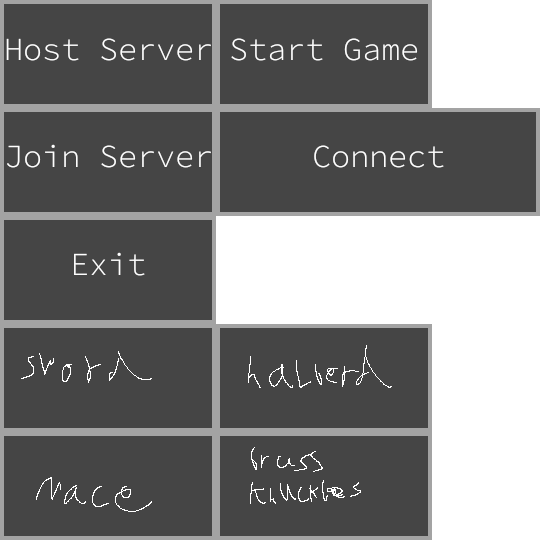
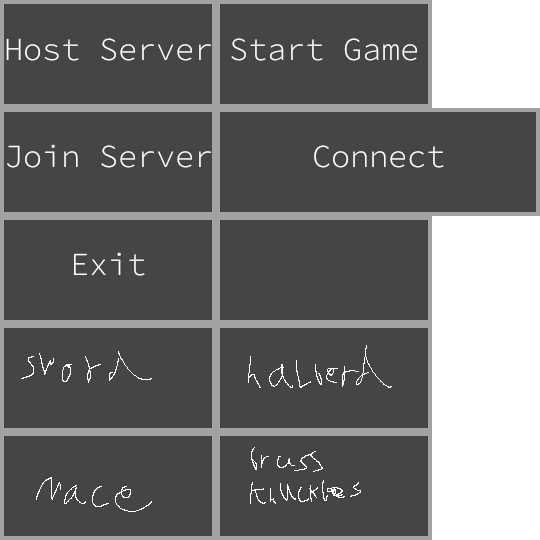
main menu up/port showing/entering

Changed region(s): [[0.3852, 0.3852, 0.8, 0.6222]]

diff --git a/core/src/game/shootergame/MainMenu.java b/core/src/game/shootergame/MainMenu.java
@@ -2,9 +2,12 @@ package game.shootergame;
 
 import com.badlogic.gdx.Gdx;
 import com.badlogic.gdx.Input.Buttons;
+import com.badlogic.gdx.Input.Keys;
 import com.badlogic.gdx.assets.loaders.TextureLoader.TextureParameter;
 import com.badlogic.gdx.graphics.Texture;
 import com.badlogic.gdx.graphics.Texture.TextureFilter;
+import com.badlogic.gdx.graphics.g2d.BitmapFont;
+import com.badlogic.gdx.graphics.g2d.GlyphLayout;
 import com.badlogic.gdx.graphics.g2d.Sprite;
 import com.badlogic.gdx.graphics.g2d.TextureRegion;
 import com.badlogic.gdx.math.Rectangle;
@@ -30,6 +33,8 @@ public class MainMenu {
     TextureRegion maceReg;
     TextureRegion brassReg;
 
+    TextureRegion blankReg;
+
     Sprite sprite;
 
     float mouseX;
@@ -43,6 +48,15 @@ public class MainMenu {
 
     boolean clientConnected = false;
 
+    BitmapFont font;
+    GlyphLayout layout = new GlyphLayout();
+    
+    String serverIP;
+    String port;
+
+    boolean selectIPText = false;
+    boolean selectPortText = false;
+
     public MainMenu() {
         currentState = State.MAIN;
 
@@ -52,6 +66,7 @@ public class MainMenu {
         ShooterGame.getInstance().am.load("GUIAtlas.png", Texture.class, param);
         ShooterGame.getInstance().am.finishLoading();
         atlas = ShooterGame.getInstance().am.get("GUIAtlas.png", Texture.class);
+        font = ShooterGame.getInstance().am.get(ShooterGame.RSC_MONO_FONT, BitmapFont.class);
         hostServerReg = new TextureRegion(atlas, 0, 0, 216, 108);
         joinServerReg = new TextureRegion(atlas, 0, 108, 216, 108);
         exitReg = new TextureRegion(atlas, 0, 216, 216, 108);
@@ -62,6 +77,8 @@ public class MainMenu {
         halberdReg = new TextureRegion(atlas, 216, 324, 216, 108);
         maceReg = new TextureRegion(atlas, 0, 432, 216, 108);
         brassReg = new TextureRegion(atlas, 216, 432, 216, 108);
+        
+        blankReg = new TextureRegion(atlas, 216, 216, 216, 108);
 
         sprite = new Sprite(atlas);
     }
@@ -103,9 +120,6 @@ public class MainMenu {
         return pressed;
     }
 
-    private void renderTextBox(TextureRegion reg) {
-    }
-
     public boolean isDone() {
         return isDone;
     }
@@ -119,15 +133,22 @@ public class MainMenu {
     }
 
     public int getPort() {
-        return 42069;
+        return Integer.parseInt(port);
     }
 
     public String getIP() {
-        return "localhost";
+        return serverIP;
+    }
+
+    public void setPort(int port) {
+        this.port = Integer.toString(port);
+    }
+
+    public void setIP(String ip) {
+        serverIP = ip;
     }
 
     public int getSelectedWeapon() {
-        System.out.println(selectedWeaponIndex);
         return selectedWeaponIndex;
     }
 
@@ -135,6 +156,20 @@ public class MainMenu {
         this.clientConnected = connected;
     }
 
+    private void appendToTextInputs(String append) {
+        if(selectIPText) {
+            StringBuilder stringBuilder = new StringBuilder();
+            stringBuilder.append(serverIP);
+            stringBuilder.append(append);
+            serverIP = stringBuilder.toString();
+        } else {
+            StringBuilder stringBuilder = new StringBuilder();
+            stringBuilder.append(port);
+            stringBuilder.append(append);
+            port = stringBuilder.toString();
+        }
+    }
+    
     public void update() {
         float aspect = (float)Gdx.graphics.getHeight() / (float)Gdx.graphics.getWidth();
         mouseX = (float)Gdx.input.getX() / (float)Gdx.graphics.getWidth() * (2f / aspect) - (1f / aspect);
@@ -144,7 +179,7 @@ public class MainMenu {
         case MAIN:
 
             if(getAndRenderButton(hostServerReg, 0, 0.27f, 0.5f, 0.25f)) { currentState = State.SERVER_HOST; isDone = true; mode = true; }
-            if(getAndRenderButton(joinServerReg, 0, 0, 0.5f, 0.25f)) { currentState = State.CLIENT_CONNECT; isDone = true; mode = false; }
+            if(getAndRenderButton(joinServerReg, 0, 0, 0.5f, 0.25f)) { currentState = State.CLIENT_CONNECT; mode = false; }
             if(getAndRenderButton(exitReg, 0, -0.27f, 0.5f, 0.25f)) { /* EXIT */}
             
             break;
@@ -156,14 +191,37 @@ public class MainMenu {
 
             break;
         case CLIENT_CONNECT:
+            if(getAndRenderButton(blankReg, -0.25f, 0.5f, 0.5f, 0.25f, selectIPText))
+            {
+                 selectIPText = true; selectPortText = false;
+                 if(serverIP == null) {
+                    serverIP = new String();
+                 }
+            }
+            if(getAndRenderButton(blankReg, 0.25f, 0.5f, 0.5f, 0.25f, selectPortText))
+            {
+                selectIPText = false; selectPortText = true;
+                if(port == null) {
+                    port = new String();
+                }
+            }
+            if(selectIPText || selectPortText) {
+                int k0 = Keys.NUM_0;
+                int k9 = Keys.NUM_9;
+                for (int i = k0; i <= k9; i++) {
+                    if(Gdx.input.isKeyJustPressed(i)) {
+                        appendToTextInputs(Integer.toString(i - k0));
+                    }
+                }
+                if(Gdx.input.isKeyJustPressed(Keys.PERIOD)) {
+                    appendToTextInputs(".");
+                }
+            }
 
-            if(getAndRenderButton(connectReg, 0, 0, 0.5f, 0.25f)) { currentState = State.CLIENT_WAIT; }
+            if(getAndRenderButton(connectReg, 0, 0, 0.5f, 0.25f)) { if(serverIP == null || port == null) {return;} isDone = true; currentState = State.CLIENT_WAIT; }
 
             break;
         case CLIENT_WAIT:
-
-            renderTextBox(null);
-            renderTextBox(null);
 
             showPlayerList();
             showWeaponSelect();
@@ -176,5 +234,40 @@ public class MainMenu {
         default:
             break;
         }
+    }
+
+    public void updateText() {
+        float h = (float)Gdx.graphics.getHeight();
+        float w = (float)Gdx.graphics.getWidth();
+        float aspect = h / w;
+
+        switch (currentState) {
+            case MAIN:
+                break;
+            case SERVER_HOST:
+                layout.setText(font, "IP: " + serverIP + "  Port: " + port);
+                font.draw(ShooterGame.getInstance().coreBatch, layout, (w / 2.0f) - (layout.width / 2.0f), h - 20.0f);
+                break;
+            case CLIENT_CONNECT:
+                float buttonsY = h - (h / 2.0f) * 0.5f;
+                float buttonsX = aspect * (w / 2.0f) * 0.25f;
+                if(serverIP == null || serverIP.equals("")) {
+                    layout.setText(font, "ENTER IP");
+                } else {
+                    layout.setText(font, serverIP);
+                }
+                font.draw(ShooterGame.getInstance().coreBatch, layout, (w/2.0f) - buttonsX - (layout.width / 2.0f), buttonsY);
+                if(port == null || port.equals("")) {
+                    layout.setText(font, "ENTER PORT");
+                } else {
+                    layout.setText(font, port);
+                }
+                font.draw(ShooterGame.getInstance().coreBatch, layout, (w/2.0f) + buttonsX - (layout.width / 2.0f), buttonsY);
+                break;
+            case CLIENT_WAIT:
+                break;
+            default:
+                break;
+            }
     }
 }

diff --git a/core/src/game/shootergame/Network/Server.java b/core/src/game/shootergame/Network/Server.java
@@ -22,7 +22,6 @@ import game.shootergame.Enemy.Enemy;
 
 public class Server implements Runnable{
 
-    private final int port = 42069;
     private List<ClientHandler> clients = new CopyOnWriteArrayList<>();
     private ConcurrentHashMap<Integer, RemotePlayer> remotePlayers;
     private ConcurrentHashMap<Integer, ItemPickup> items;
@@ -382,11 +381,22 @@ public class Server implements Runnable{
         }
     }
 
+    String ip;
+    int port;
+    public String getIP() {
+        return ip;
+    }
+
+    public int getPort() {
+        return port;
+    }
+
     @Override
     public void run() {
-        try (ServerSocket serverSocket = new ServerSocket(port)) {
-            serverSocket.getInetAddress();
-            System.out.println("Server is listening on port: " + port + " IP: " + InetAddress.getLocalHost().getHostAddress());
+        try (ServerSocket serverSocket = new ServerSocket(0)) {
+            port = serverSocket.getLocalPort();
+            ip = InetAddress.getLocalHost().getHostAddress();
+            System.out.println("Server is listening on port: " + port + " IP: " + ip);
             while (true) {
                 Socket socket = serverSocket.accept();
                 System.out.println("Client connected");

diff --git a/core/src/game/shootergame/Network/Client.java b/core/src/game/shootergame/Network/Client.java
@@ -23,8 +23,6 @@ import java.util.concurrent.ConcurrentLinkedQueue;
 
 public class Client {
 
-    private final String hostName = "localhost";
-    private final int portNumber = 42069;
     private Socket socket;
     private ConcurrentHashMap<Integer, RemotePlayer> remotePlayers;
     private ConcurrentHashMap<Integer, ItemPickup> items;
@@ -42,12 +40,12 @@ public class Client {
     
     private ConcurrentLinkedQueue<ByteBuffer> outputQueue = new ConcurrentLinkedQueue<>();
 
-    public Client (ConcurrentHashMap<Integer, RemotePlayer> remotePlayers, ConcurrentHashMap<Integer, ItemPickup> items, ConcurrentHashMap<Integer, Enemy> enemies) {
+    public Client (String ip, int port, ConcurrentHashMap<Integer, RemotePlayer> remotePlayers, ConcurrentHashMap<Integer, ItemPickup> items, ConcurrentHashMap<Integer, Enemy> enemies) {
         this.remotePlayers = remotePlayers;
         this.items = items;
         this.enemies = enemies;
         try {
-            socket = new Socket(hostName, portNumber);
+            socket = new Socket(ip, port);
             DataInputStream in = new DataInputStream(socket.getInputStream());
             DataOutputStream out = new DataOutputStream(socket.getOutputStream());
 

diff --git a/core/src/game/shootergame/World.java b/core/src/game/shootergame/World.java
@@ -118,7 +118,7 @@ public class World {
     }
 
     public static void startAsClient() {
-        instance.client = new Client(instance.remotePlayers, instance.items, instance.enemies);
+        instance.client = new Client(instance.mainMenu.getIP(), instance.mainMenu.getPort(), instance.remotePlayers, instance.items, instance.enemies);
         instance.networkMode = NetworkMode.CLIENT;
     }
 
@@ -286,13 +286,19 @@ public class World {
         if(instance.mainMenu.shouldRunGame()) {
             instance.player.render();
         } else {
+            if(instance.networkMode == NetworkMode.SERVER) {
+                instance.mainMenu.setIP(instance.server.getIP());
+                instance.mainMenu.setPort(instance.server.getPort());
+            }
             instance.mainMenu.update();
         }
     }
 
     public static void renderHud() {
-        if(!instance.mainMenu.shouldRunGame())
+        if(!instance.mainMenu.shouldRunGame()) {
+            instance.mainMenu.updateText();
             return;
+        }
 
         if(instance.itemPrompt != null) {
             String name = instance.itemPrompt.getName();
